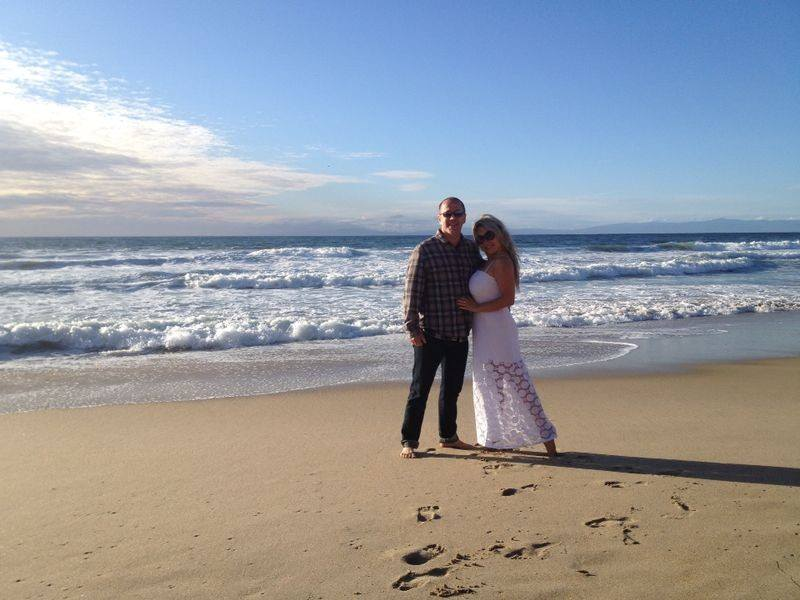
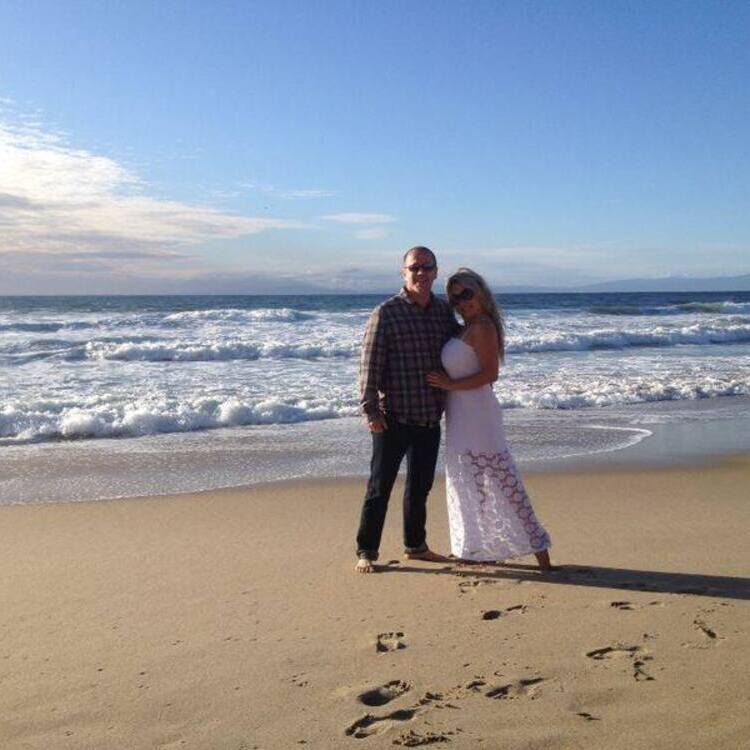
added default image for couple

diff --git a/src/pages/LandingPages/Gallery/sections/CouplesStories.js b/src/pages/LandingPages/Gallery/sections/CouplesStories.js
@@ -27,6 +27,7 @@ import { useTranslation } from "react-i18next";
 import olgaScott from "assets/images/couples/olga_scott.jpg";
 import annaThomas from "assets/images/couples/anna_thomas.jpg";
 import ninaGenrih from "assets/images/couples/nina_genrih.jpg";
+import defaultImg from "assets/images/couples/default.png";
 
 function CouplesStories() {
   const { t } = useTranslation();
@@ -36,7 +37,8 @@ function CouplesStories() {
   const imageMap = {
     "olga_scott.jpg": olgaScott,
     "anna_thomas.jpg": annaThomas,
-    "nina_genrih.jpg": ninaGenrih
+    "nina_genrih.jpg": ninaGenrih,
+    "default.png": defaultImg
   };
 
   return (
